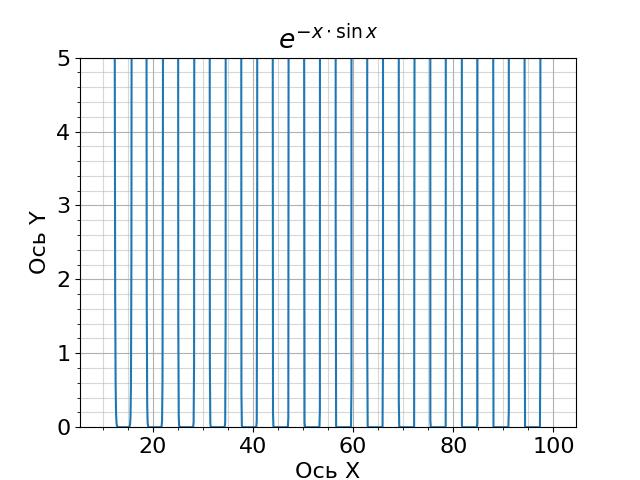
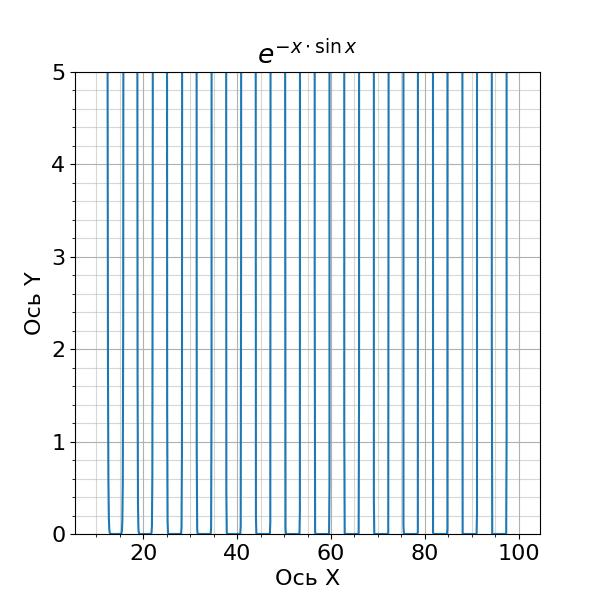
Labels fix

diff --git a/Classwork04/Matplotlib(3-5).py b/Classwork04/Matplotlib(3-5).py
@@ -3,7 +3,7 @@ import matplotlib as mpl
 import matplotlib.pyplot as plt
 
 mpl.rcParams['font.size']=16
-plt.figure()
+plt.figure(figsize=(6,6))
 
 plt.title(r'$e ^{-x \cdot \sin x}$')
 plt.xlabel("Ось X")

diff --git a/Classwork04/Matplotlib(1-2).py b/Classwork04/Matplotlib(1-2).py
@@ -3,7 +3,7 @@ import matplotlib as mpl
 import numpy as np
 
 mpl.rcParams['font.size'] = 16
-plt.figure()
+plt.figure(figsize=(11,7))
 
 plt.title(r'$y = \sin x \cdot x^{-2}$')
 plt.xlabel("Ось X")
